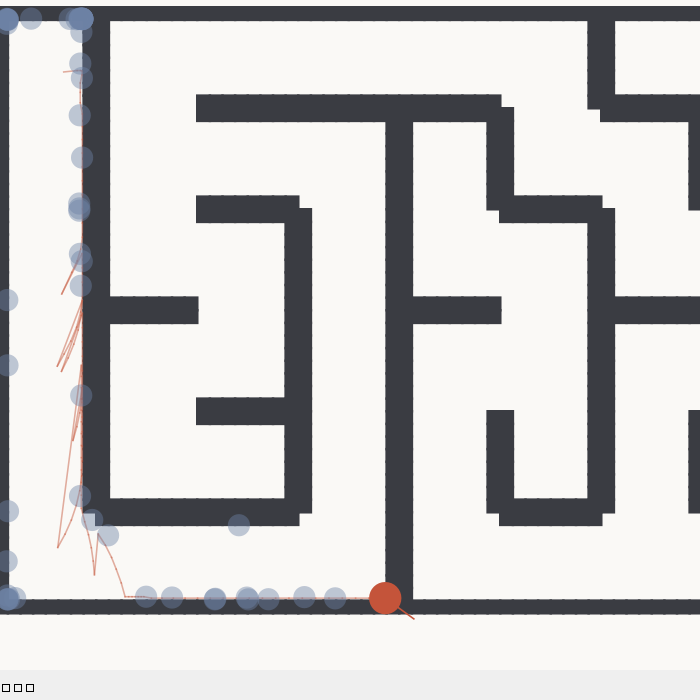
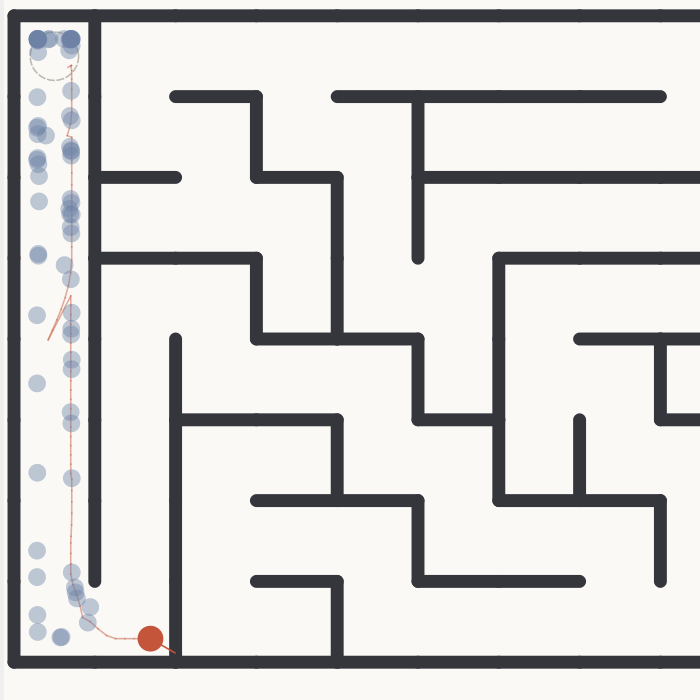
fix(maze): the agents were teleported past every collision check
Wall penetration had a trivial cause: after resolving the move against walls, a leftover line overwrote the result with the raw displacement, so the collision code never had any effect. Removed. Collision now also uses the body radius with eight-point sampling instead of a single centre point, and resolution is priority ordered - full move, then x only, then y only, then stay - which also removes corner cutting. Measured over 600 ticks: zero overlapping individuals. The maze grew to 10x8 and the walls are drawn as thick round-capped lines with a dashed start ring and a soft glow at the exit, which reads far better than the blocky rectangles.

diff --git a/apps/Physics/MazeEvolution.py b/apps/Physics/MazeEvolution.py
@@ -71,6 +71,15 @@ class Maze:
         iy = np.clip((y * SUB).astype(np.int32), 0, self.H - 1)
         return self.occ[iy, ix]
 
+    def blocked_circle(self, x, y, r=AGENT_R):
+        """圆与墙是否相交：圆周八点采样，比四点更不容易漏掉薄墙。"""
+        d = r * 0.7071
+        hit = self.blocked(x + r, y) | self.blocked(x - r, y)
+        hit |= self.blocked(x, y + r) | self.blocked(x, y - r)
+        hit |= self.blocked(x + d, y + d) | self.blocked(x + d, y - d)
+        hit |= self.blocked(x - d, y + d) | self.blocked(x - d, y - d)
+        return hit
+
     def ray(self, x, y, ang, maxr=SENSOR_RANGE, steps=24):
         """沿角度方向找最近的墙，返回归一化距离（0=贴墙，1=开阔）。"""
         n = x.shape[0]
@@ -86,7 +95,7 @@ class Maze:
 
 # ==================== 群体 ====================
 class Swarm:
-    def __init__(self, pop=64, maze=None, seed=1):
+    def __init__(self, pop=80, maze=None, seed=1):
         self.pop = pop
         self.maze = maze or Maze(seed=seed)
         self.rng = np.random.default_rng(seed)
@@ -121,12 +130,14 @@ class Swarm:
         nx = self.pos[:, 0] + np.cos(self.ang) * speed * dt
         ny = self.pos[:, 1] + np.sin(self.ang) * speed * dt
 
-        # 撞墙时沿墙滑动，而不是直接停死（否则会卡在墙角）
-        bx = m.blocked(nx, self.pos[:, 1])
-        by = m.blocked(self.pos[:, 0], ny)
-        nx = np.where(bx, self.pos[:, 0], nx)
-        ny = np.where(by, self.pos[:, 1], ny)
-        self.pos = np.stack([nx, ny], axis=1)
+        # 优先级：完整位移 > 只走 x > 只走 y > 原地
+        ox, oy = self.pos[:, 0], self.pos[:, 1]
+        ok_b = ~m.blocked_circle(nx, ny)
+        ok_x = ~m.blocked_circle(nx, oy)
+        ok_y = ~m.blocked_circle(ox, ny)
+        nx2 = np.where(ok_b, nx, np.where(ok_x, nx, ox))
+        ny2 = np.where(ok_b, ny, np.where(ok_x, oy, np.where(ok_y, ny, oy)))
+        self.pos = np.stack([nx2, ny2], axis=1)
 
         d = np.linalg.norm(self.pos - m.goal, axis=1)
         self.reached |= d < 0.55
@@ -202,22 +213,33 @@ class MazeCanvas(QWidget):
         def Y(v):
             return oy + v * scale
 
-        # 墙
-        occ = m.occ
-        step = 1
-        cellpix = max(1.0, scale / SUB * 1.2)
-        p.setPen(Qt.NoPen)
-        p.setBrush(QColor(58, 60, 66))
-        ys, xs = np.nonzero(occ[::step, ::step])
-        for iy, ix in zip(ys, xs):
-            p.drawRect(QRectF(ox + ix * step / SUB * scale,
-                              oy + iy * step / SUB * scale,
-                              cellpix, cellpix))
+        # 墙：用圆头粗线画，转角自然衔接
+        p.setPen(QPen(QColor(52, 54, 60), max(2.0, 0.16 * scale),
+                      Qt.SolidLine, Qt.RoundCap, Qt.RoundJoin))
+        for j in range(m.ch):
+            for i in range(m.cw):
+                x0 = i * CELL
+                y0 = j * CELL
+                if m.walls[j, i, 0]:
+                    p.drawLine(QPointF(X(x0), Y(y0)), QPointF(X(x0 + CELL), Y(y0)))
+                if m.walls[j, i, 3]:
+                    p.drawLine(QPointF(X(x0), Y(y0)), QPointF(X(x0), Y(y0 + CELL)))
+                if i == m.cw - 1 and m.walls[j, i, 1]:
+                    p.drawLine(QPointF(X(x0 + CELL), Y(y0)), QPointF(X(x0 + CELL), Y(y0 + CELL)))
+                if j == m.ch - 1 and m.walls[j, i, 2]:
+                    p.drawLine(QPointF(X(x0), Y(y0 + CELL)), QPointF(X(x0 + CELL), Y(y0 + CELL)))
 
-        # 终点
+        # 起点与终点
+        sx, sy = m.start
+        p.setBrush(Qt.NoBrush)
+        p.setPen(QPen(QColor(190, 186, 178), 1.6, Qt.DashLine))
+        p.drawEllipse(QPointF(X(sx), Y(sy)), 0.30 * scale, 0.30 * scale)
         gx, gy = m.goal
+        p.setPen(Qt.NoPen)
+        p.setBrush(QColor(96, 176, 120, 60))
+        p.drawEllipse(QPointF(X(gx), Y(gy)), 0.42 * scale, 0.42 * scale)
         p.setBrush(QColor(96, 176, 120))
-        p.drawEllipse(QPointF(X(gx), Y(gy)), 0.28 * scale, 0.28 * scale)
+        p.drawEllipse(QPointF(X(gx), Y(gy)), 0.26 * scale, 0.26 * scale)
 
         # 最优个体的轨迹
         if app.best_trail:
@@ -259,12 +281,12 @@ class MazeApp(QMainWindow):
         self.setGeometry(110, 70, 1120, 760)
 
         self.maze_seed = 7
-        self.swarm = Swarm(pop=64, maze=Maze(8, 6, seed=self.maze_seed))
+        self.swarm = Swarm(pop=80, maze=Maze(10, 8, seed=self.maze_seed))
         self.generation = 1
         self.running = True
         self.show_all = True
         self.episode_t = 0.0
-        self.episode_len = 30.0
+        self.episode_len = 35.0
         self.best_trail = []
         self.best_fit = 0.0
         self.reached = 0
@@ -388,7 +410,7 @@ class MazeApp(QMainWindow):
 
     def new_maze(self):
         self.maze_seed += 1
-        self.swarm = Swarm(pop=64, maze=Maze(8, 6, seed=self.maze_seed))
+        self.swarm = Swarm(pop=80, maze=Maze(10, 8, seed=self.maze_seed))
         self.generation = 1
         self.episode_t = 0.0
         self.best_trail = []
